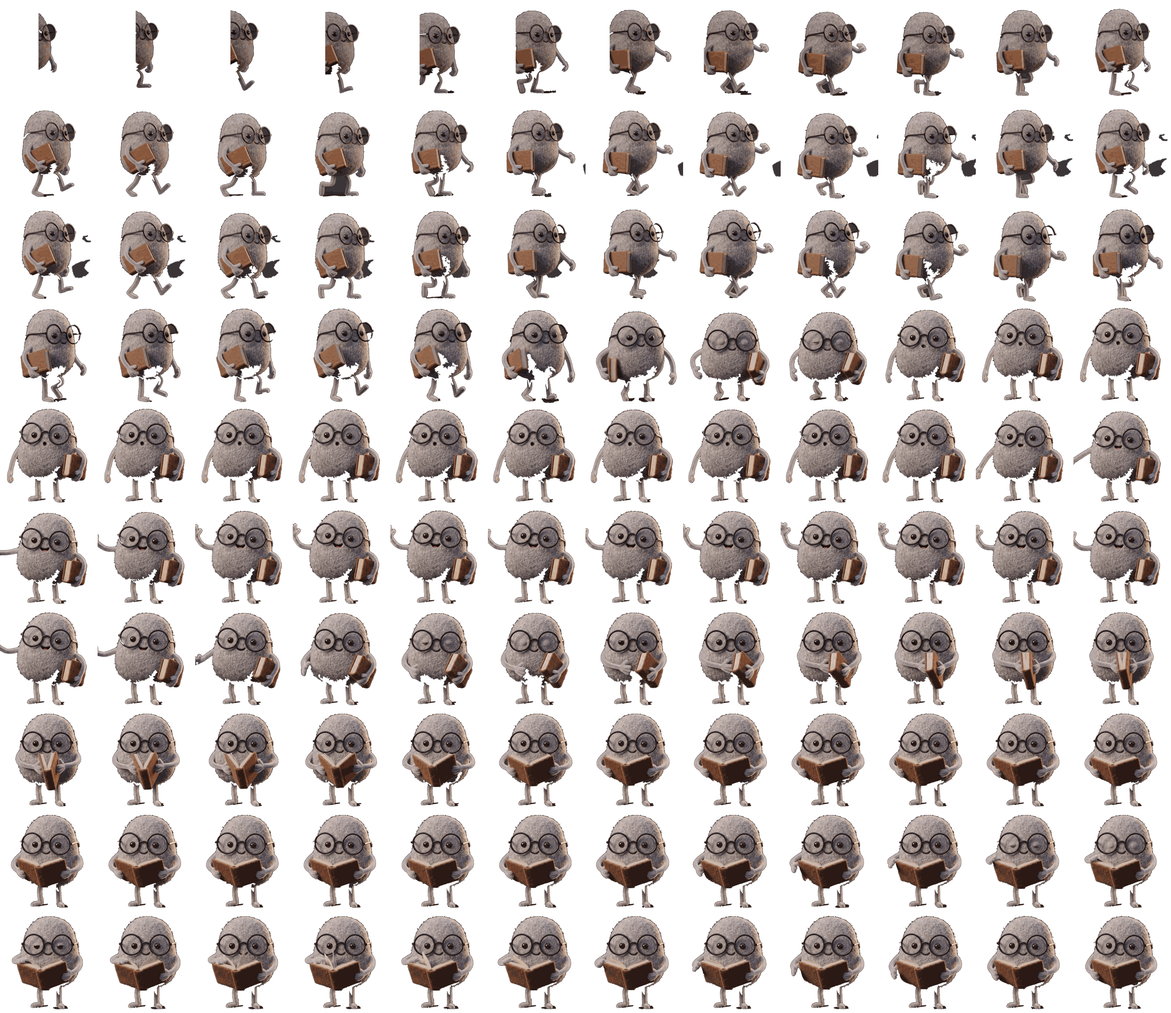
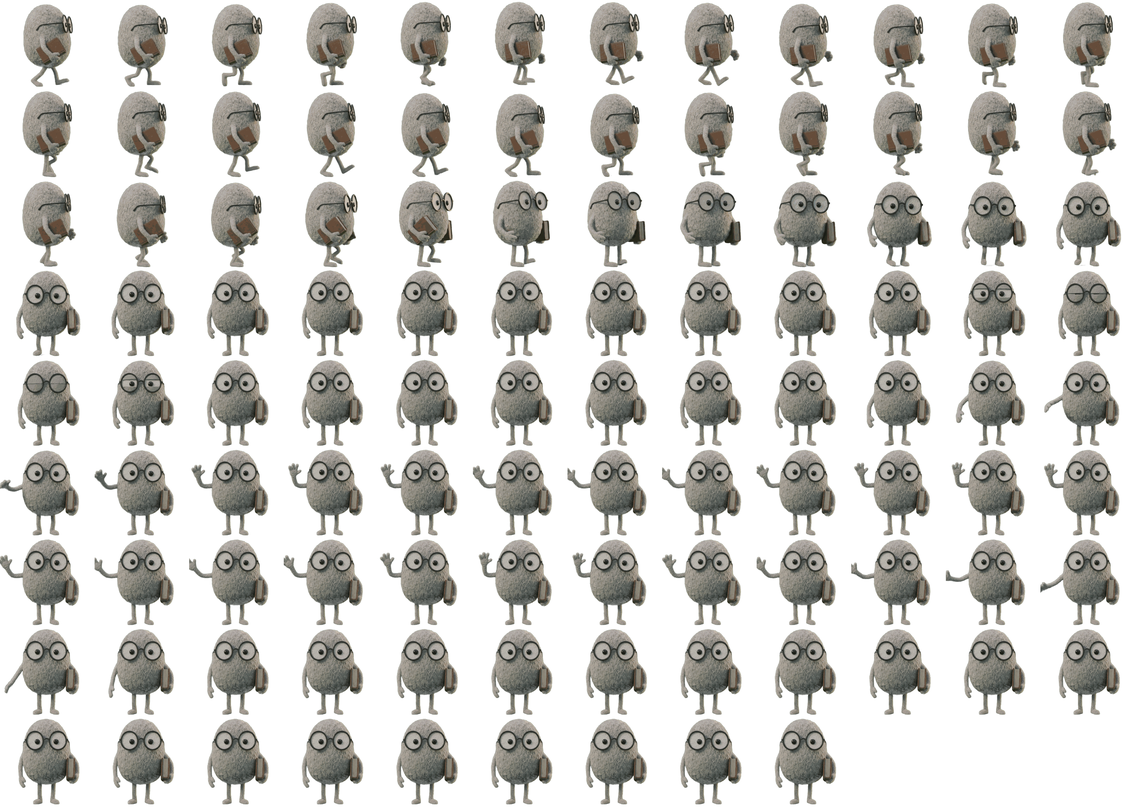
Skippy from Jörg's green-screen animation (clean cut-out): walk in, wave, stand; still poses; Skippy says the speech-bubble tips
Claude-Session: https://claude.ai/code/session_01NDsvQ4w6b4M39K7iEhCswz

diff --git a/src/components/Skippy.js b/src/components/Skippy.js
@@ -1,7 +1,6 @@
-// Skippy, the felt pebble mascot. Drawn from a sprite sheet cut out of Jörg's animation:
-// frames 0–40 he walks in, ~48–80 he stops and waves, ~84 on he opens his book and reads.
-// mode 'intro': walk in, wave, then keep reading (a gentle loop of the last frames).
-// mode 'wave': just wave (from standing), then read. still: show one frame only.
+// Skippy, the felt pebble mascot. Drawn from a sprite sheet cut out of Jörg's green-screen animation:
+// frames 0–30 he walks in, then turns to face us, 54–86 he waves, 87 on he stands (a gentle loop).
+// mode 'intro': walk in, wave, then stand. mode 'wave…': just wave, then stand. still: one frame only.
 import React, { useEffect, useRef, useState } from 'react';
 import { Image, Pressable, View } from 'react-native';
 import META from '../skippyFrames.json';
@@ -9,7 +8,7 @@ import META from '../skippyFrames.json';
 const SHEET = require('../../assets/skippy-sheet.png');
 const { frames: N, cols: COLS, fw: FW, fh: FH, fps: FPS, cx: CX } = META;
 const ROWS = Math.ceil(N / COLS);
-const WALK_END = 40, WAVE_START = 46, READ_START = 92;
+const WALK_END = 30, WAVE_START = 54, READ_START = 87; // READ_START: where the standing loop begins
 
 export default function Skippy({ height = 150, mode = 'intro', still, enterFrom = 0, onPress, onWave, style }) {
   const k = height / FH;
@@ -33,7 +32,7 @@ export default function Skippy({ height = 150, mode = 'intro', still, enterFrom 
         }
         if (cur >= N - 1) { dir.current = -1; return N - 2; }
         n = cur + 1;
-        if (n === WAVE_START + 10 && !waved.current) { waved.current = true; onWave && onWave(); }
+        if (n === WAVE_START + 6 && !waved.current) { waved.current = true; onWave && onWave(); }
         return n;
       });
     }, 1000 / FPS);
@@ -50,4 +49,15 @@ export default function Skippy({ height = 150, mode = 'intro', still, enterFrom 
   return <Pressable onPress={onPress} style={style} accessibilityRole="button" accessibilityLabel="Skippy">{body}</Pressable>;
 }
 
-export const SKIPPY_WAVE_FRAME = 62;
+export const SKIPPY_WAVE_FRAME = 66;
+
+// Still poses (cut out from Jörg's renders), for small appearances such as beside a speech bubble.
+export const SKIPPY_POSES = {
+  front: require('../../assets/skippy/front.png'),
+  wave: require('../../assets/skippy/wave.png'),
+  reading: require('../../assets/skippy/reading.png'),
+  thinking: require('../../assets/skippy/thinking.png'),
+  side: require('../../assets/skippy/side.png'),
+  back: require('../../assets/skippy/back.png'),
+  walkAway: require('../../assets/skippy/walk-away.png'),
+};

diff --git a/src/components/Chrome.js b/src/components/Chrome.js
@@ -1,9 +1,10 @@
 // Shared pieces of Jörg's design: black control bar, hamburger, dog-ear corner, slide-in panels.
 import React, { useEffect, useRef } from 'react';
-import { Animated, Easing, PanResponder, Pressable, StyleSheet, Text, View, ScrollView, useWindowDimensions } from 'react-native';
+import { Animated, Easing, Image, PanResponder, Pressable, StyleSheet, Text, View, ScrollView, useWindowDimensions } from 'react-native';
 import { useSafeAreaInsets } from 'react-native-safe-area-context';
 import { colors, fonts } from '../theme';
 import { Felt, Stitch, useLook } from '../look';
+import { SKIPPY_POSES } from './Skippy';
 
 export function Burger({ onPress, u }) {
   const w = u * 7, t = Math.max(3, u * 1), gap = u * 1.7;
@@ -369,8 +370,12 @@ export function Toast({ message, area, onDismiss }) {
   if (!message) return null;
   return (
     <View pointerEvents="box-none" style={[{ position: 'absolute', left: 0, right: 0, top: 0, bottom: 0, zIndex: 60, alignItems: 'center', justifyContent: 'center', paddingHorizontal: 24 }, area]}>
-      <Pressable onPress={onDismiss} accessibilityRole="button" accessibilityHint="Closes the message" style={styles.bubble}>
-        <Text style={styles.toast}>{message}</Text>
+      {/* Skippy says it: his thinking pose beside the bubble */}
+      <Pressable onPress={onDismiss} accessibilityRole="button" accessibilityHint="Closes the message" style={{ flexDirection: 'row', alignItems: 'flex-end', gap: 6, maxWidth: 420 }}>
+        <Image source={SKIPPY_POSES.thinking} resizeMode="contain" style={{ width: 74, height: 100, marginBottom: -8 }} />
+        <View style={[styles.bubble, { flexShrink: 1, marginBottom: 40 }]}>
+          <Text style={styles.toast}>{message}</Text>
+        </View>
       </Pressable>
     </View>
   );
